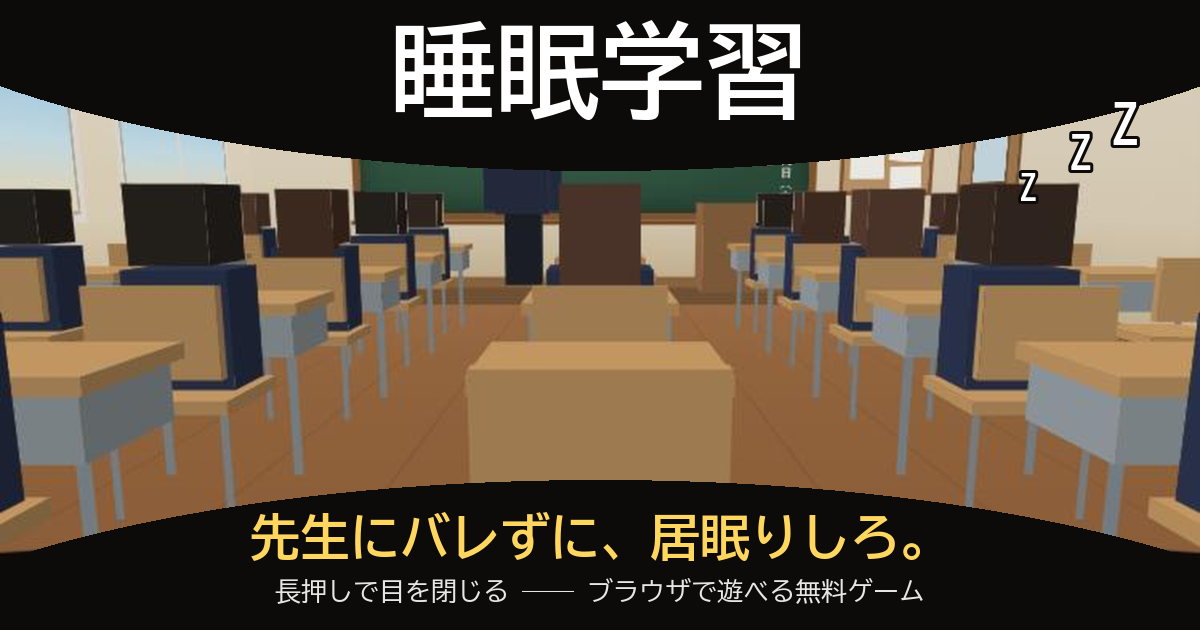
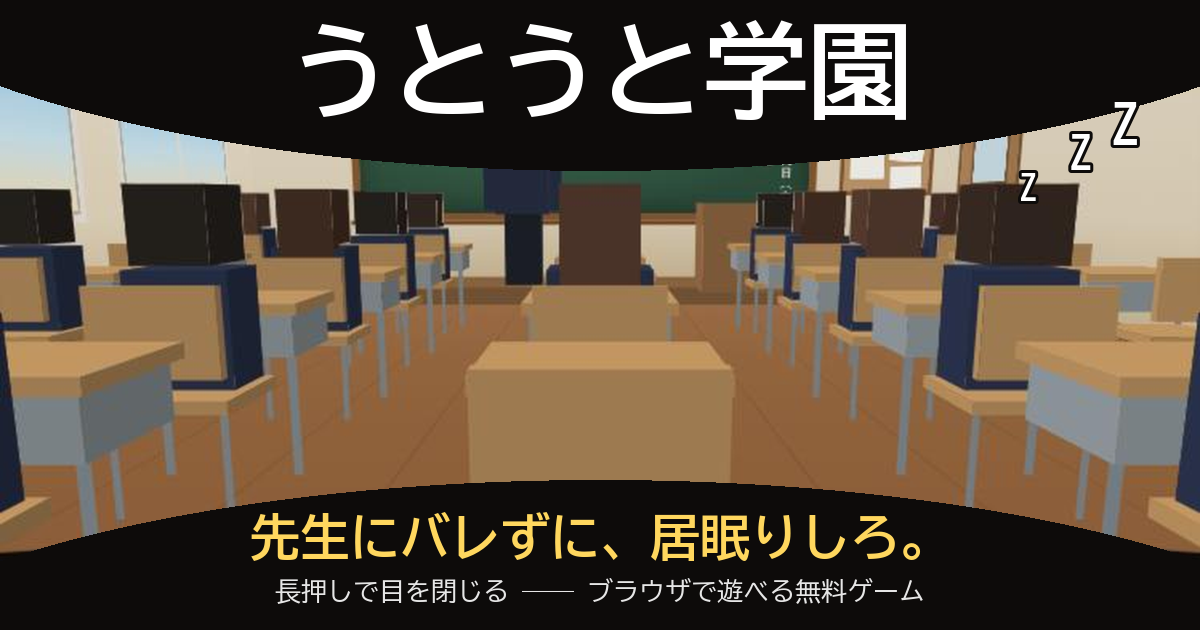
タイトルを「うとうと学園」に、スマホで拡大されたまま戻れない不具合を直す、「○限」を「○時間目」に、授業の始めの文字を長めに

Changed region(s): [[0.2467, 0.0302, 0.7708, 0.2111]]

diff --git a/index.html b/index.html
@@ -2,17 +2,17 @@
 <html lang="ja">
 <head>
 <meta charset="UTF-8">
-<meta name="viewport" content="width=device-width, initial-scale=1, user-scalable=no">
-<title>睡眠学習</title>
+<meta name="viewport" id="vp" content="width=device-width, initial-scale=1, maximum-scale=1, user-scalable=no, viewport-fit=cover">
+<title>うとうと学園</title>
 <!-- 検索やSNSで表示される説明・カード画像（公開先：https://gunhana-games.github.io/inemuri/） -->
 <meta name="description" content="授業中、先生にバレずに居眠りしろ。長押しで目を閉じると眠気が下がる。でも先生に見られたらアウト。時間割は終わらない。ブラウザで遊べる無料ゲーム。">
 <meta property="og:type" content="website">
-<meta property="og:title" content="睡眠学習">
+<meta property="og:title" content="うとうと学園">
 <meta property="og:description" content="先生にバレずに、居眠りしろ。ブラウザで今すぐ遊べる無料ゲーム。">
 <meta property="og:url" content="https://gunhana-games.github.io/inemuri/">
 <meta property="og:image" content="https://gunhana-games.github.io/inemuri/ogp.png">
 <meta name="twitter:card" content="summary_large_image">
-<meta name="twitter:title" content="睡眠学習">
+<meta name="twitter:title" content="うとうと学園">
 <meta name="twitter:description" content="先生にバレずに、居眠りしろ。">
 <meta name="twitter:image" content="https://gunhana-games.github.io/inemuri/ogp.png">
 <link rel="icon" type="image/png" href="icon.png">
@@ -446,10 +446,10 @@
   <div class="shareNote" id="shareNote"></div>
 </div>
 
-<script src="scenes.js?v=3"></script>
+<script src="scenes.js?v=4"></script>
 <script>
 // ===== タイトル（仮）。ここを書き換えるだけで、タブの名前と最初の画面とシェア文が変わる =====
-const TITLE = '睡眠学習';
+const TITLE = 'うとうと学園';
 // 公開したらURLを入れる（空のときは今のページのURLを使う）
 const SITE_URL = 'https://gunhana-games.github.io/inemuri/';
 
@@ -489,6 +489,8 @@ const P = {
   napGroggySec: 12,       // 机で寝たあと、寝起きでぼんやりする時間（秒）
   napGroggyMul: 2,        // ぼんやりしている間、眠気が何倍の速さでたまるか
   eventRate: 0.6,         // 2限から毎時限1つ起きるイベントのうち、ピンチ・チャンスの割合（残りはにぎやかし）
+  bannerMs: 2400,         // 授業の始めなどの大きな文字を出しておく時間（ミリ秒）
+  bannerLongMs: 4200,     // 先生の紹介（今日の先生：○○）がついているときの時間（ミリ秒）
   eventTagSec: 3.2,       // 「ピンチ！」「チャンス！」の合図を出しておく最低の時間（秒）
   eventWarnSec: 1.5,      // 小テスト・スマホのイベントで、先生が振り向く前の予兆の長さ（秒）
   tipSec: 3.2,            // 初めてのヒントを出しておく時間（秒）
@@ -1076,6 +1078,17 @@ el('nameInput').addEventListener('compositionstart', () => { nameComposing = tru
 el('nameInput').addEventListener('compositionend', (e) => { nameComposing = false; e.target.value = cutName(e.target.value); });
 el('nameInput').addEventListener('input', (e) => { if (!nameComposing && [...e.target.value].length > NAME_MAX) e.target.value = cutName(e.target.value); });
 const lidTop = el('lidTop'), lidBot = el('lidBot'), blur = el('blur');
+// iPhone：2本指の拡大（ピンチ）とダブルタップの拡大を止める。名前の入力のあとは、ずれた画面を元に戻す
+['gesturestart', 'gesturechange'].forEach((t) => document.addEventListener(t, (e) => e.preventDefault(), { passive: false }));
+document.addEventListener('dblclick', (e) => e.preventDefault(), { passive: false });
+function resetZoom() {
+  const vp = document.getElementById('vp');
+  const c = vp.getAttribute('content');
+  vp.setAttribute('content', c + ', minimum-scale=1');   // 一瞬書きかえると、拡大が元に戻る
+  setTimeout(() => vp.setAttribute('content', c), 50);
+  window.scrollTo(0, 0);
+}
+el('nameInput').addEventListener('blur', resetZoom);
 
 function posInDay(p) { return ((p - 1) % 24) + 1; }
 function dayOf(p) { return Math.floor((p - 1) / 24) + 1; }
@@ -1257,9 +1270,9 @@ function setupPeriod() {
     S.eventAt = -1; S.evQ = [];
     S.calls = makeCalls(lessonLen()).filter((c) => c < P.bossEndAt - 5);
     bossEntrance();
-    showBanner('！ 学年主任の授業 ！', ttype().desc, `${S.period}限　${sub}`);
+    showBanner('！ 学年主任の授業 ！', ttype().desc, `${S.period}時間目　${sub}`);
   }
-  if (!boss) showBanner(`${S.period}限　${sub}`, `${room !== 'classroom' ? ROOM_NAMES[room] + '・' : ''}${ph.name}・${lvName}`, `今日の先生：${ttype().name}${ttype().desc ? '（' + ttype().desc + '）' : ''}`);
+  if (!boss) showBanner(`${S.period}時間目　${sub}`, `${room !== 'classroom' ? ROOM_NAMES[room] + '・' : ''}${ph.name}・${lvName}`, `今日の先生：${ttype().name}${ttype().desc ? '（' + ttype().desc + '）' : ''}`);
 }
 // ===== 左上の時間割表 =====
 // 今の時限をふくむ6時限分（1〜6限、7〜12限…）を並べる。今の時限は色つき＋先生のクセ＋残り時間のバー、
@@ -1268,7 +1281,7 @@ function renderTimetable(inBreak = false) {
   const p = Math.max(1, S.period || 1);
   const first = p - ((posInDay(p) - 1) % 6);
   const ph = phaseOf(p);
-  el('ttTitle').textContent = `${dayOf(p) > 1 ? dayOf(p) + '日目 ' : ''}時間割 ${first}〜${first + 5}限`;
+  el('ttTitle').textContent = `${dayOf(p) > 1 ? dayOf(p) + '日目 ' : ''}時間割 ${first}〜${first + 5}時間目`;
   el('pPhase').textContent = ph.name;
   el('pPhase').className = ph.key;
   let html = '';
@@ -1309,7 +1322,7 @@ function showBanner(t, sub, sub2) {
   b.innerHTML = `${esc(t)}<small>${esc(sub || '')}</small>${sub2 ? `<small class="b2">${esc(sub2)}</small>` : ''}`;
   b.classList.add('on');
   clearTimeout(showBanner.t);
-  showBanner.t = setTimeout(() => b.classList.remove('on'), sub2 ? 2400 : 1600);
+  showBanner.t = setTimeout(() => b.classList.remove('on'), sub2 ? P.bannerLongMs : P.bannerMs);   // 先生の紹介つきは長めに
 }
 // 先生の吹き出し。目を閉じているほど、文字が虫食いになってにじむ
 function say(text, speaker, garble = false) {
@@ -2957,7 +2970,7 @@ function buildDevPanel() {
     <label for="dPick">休み時間に必ず出す</label><select id="dPick">${opt([['', 'ランダム']].concat(BREAK_ACTIONS.map((a) => [a.id, a.name + (a.when ? '（' + ({ lunch: '昼休み', day: '朝〜昼', evening: '補習', night: '夜', midnight: '真夜中', dawn: '夜明け' })[a.when] + '）' : '')])), DEV.breakPick)}</select>
     <label for="dGod">無敵（アウトにならない）</label><input id="dGod" type="checkbox"${DEV.god ? ' checked' : ''}>`;
   box.classList.remove('hidden');
-  el('titleRecord').textContent = '時間帯：1〜6限 朝〜昼／7〜9限 補習／10〜15限 夜／16〜21限 真夜中／22〜24限 夜明け（6限ごとに学年主任）';
+  el('titleRecord').textContent = '時間帯：1〜6時間目 朝〜昼／7〜9 補習／10〜15 夜／16〜21 真夜中／22〜24 夜明け（6時間目ごとに学年主任）';
 }
 function readDevPanel() {
   DEV.start = Math.max(1, Math.min(72, Math.floor(Number(el('dStart').value) || 1)));
@@ -3019,12 +3032,12 @@ function gameOver(kind, causeText, who) {
   const prev = Number(store('inemuri-best') || 0);
   if (reached > prev && !DEV.on) store('inemuri-best', String(reached));   // 開発者メニューで遊んだ分は記録しない
   const ph = phaseOf(reached);
-  el('endScore').innerHTML = `${reached}限<small>（${esc(S.subject)}）${sec}秒でアウト</small>`;
+  el('endScore').innerHTML = `${reached}時間目<small>（${esc(S.subject)}）${sec}秒でアウト</small>`;
   el('endSub').textContent = (dayOf(reached) > 1 ? `${dayOf(reached)}日目・` : '') + ph.name;
   el('endCause').textContent = '死因：' + cause;
   el('endSleep').textContent = `起きていた時間 ${fmtTime(S.awakeTime)}${S.bestCombo > 1 ? `（セーフ最高 ×${S.bestCombo}）` : ''}`;
   el('endRank').textContent = '称号：' + rankOf(reached);
-  el('endBest').textContent = reached > prev && prev ? '自己ベスト更新！' : prev ? `自己ベスト ${Math.max(prev, reached)}限` : '';
+  el('endBest').textContent = reached > prev && prev ? '自己ベスト更新！' : prev ? `自己ベスト ${Math.max(prev, reached)}時間目` : '';
   S.result = { reached, cause, rank: rankOf(reached), sub: S.subject, sleep: fmtTime(S.sleepTime), sleepSec: S.sleepTime, awake: fmtTime(S.awakeTime), awakeSec: S.awakeTime,
     bestCombo: S.bestCombo, correct: S.correct, answered: S.answered, name: playerName, catcher: kind === 'sleep' ? '' : (who || speakerName()),
     kind, plays: DEV.on ? plays + 1 : plays, safeAll: S.safeAll, turns: S.turns, called: S.called, tests: S.tests, testPerfect: S.testPerfect, nurse: S.nurse, coffee: S.coffee,
@@ -3069,7 +3082,7 @@ function reportData(r) {
 }
 function shareText() {
   const r = S.result;
-  return `【${TITLE}】${r.reached}限（${r.sub}）でアウト\n起きていた時間：${r.awake}\n死因：${r.cause}\n称号：${r.rank}\n#${TITLE}`;
+  return `【${TITLE}】${r.reached}時間目（${r.sub}）でアウト\n起きていた時間：${r.awake}\n死因：${r.cause}\n称号：${r.rank}\n#${TITLE}`;
 }
 function shareUrl() { return SITE_URL || (location.protocol.startsWith('http') ? location.href.split(/[?#]/)[0] : ''); }
 // スマホで「画像つきの共有」ができるなら、結果の画像といっしょに共有する。できなければXの投稿画面を開く（文字だけ）
@@ -3092,7 +3105,7 @@ async function saveImage() {
   const blob = await resultBlob();
   const a = document.createElement('a');
   a.href = URL.createObjectURL(blob);
-  a.download = `suimin-gakushu-${S.result.reached}gen.png`;
+  a.download = `suimin-gakushu-${S.result.reached}jikanme.png`;
   document.body.appendChild(a); a.click(); a.remove();
   setTimeout(() => URL.revokeObjectURL(a.href), 2000);
 }
@@ -3208,7 +3221,7 @@ function drawResultCanvas() {
     const L = 70, R = W / 2 - 34;
     txt('通　知　表', L, 80, 44, { w: 900 });
     txt(`第${d.plays}学期`, R, 78, 24, { a: 'right', w: 900 });
-    txt('私立 睡眠学習高等学校', L, 118, 18);
+    txt('私立 うとうと学園高等学校', L, 118, 18);
     txt('氏名', R - 150, 118, 18);
     txt(d.name, R, 120, 30, { a: 'right', w: 900 });
     line(L, 132, R, 132, 3);
@@ -3230,7 +3243,7 @@ function drawResultCanvas() {
     const ay = gy + ch * 2 + 34;
     heading('居眠りの記録', L, ay);
     const rc = d.record;
-    const cols = [['授業時数', `${rc.periods}限`], ['起きていた時間', rc.awake], ['セーフ', `${rc.safeAll}回`], ['セーフ最高', `×${rc.safe}`],
+    const cols = [['授業時数', `${rc.periods}時間`], ['起きていた時間', rc.awake], ['セーフ', `${rc.safeAll}回`], ['セーフ最高', `×${rc.safe}`],
                   ['振り向かれた', `${rc.turns}回`], ['当てられた', `${rc.called}回`], ['正解', `${rc.correct}問`], ['小テスト', `${rc.test}回`]];
     const per = 4, acw = (R - L) / per, ach = 46;
     cols.forEach(([k, v], i) => {
@@ -3293,6 +3306,7 @@ function drawResultCanvas() {
 
 function start() {
   audio();
+  resetZoom();
   if (DEV.on) readDevPanel();   // 開発者メニューの設定を、S を作る前に読む（始める時限など）
   playerName = cutName((el('nameInput').value || '').trim()) || '山田';   // 念のため、始めるときにも6文字で切る
   store('inemuri-name', playerName);

diff --git a/scenes.js b/scenes.js
@@ -1,5 +1,5 @@
 // ============================================================
-//  睡眠学習：場面データ（教科・問題・先生の話・時間帯・称号）
+//  うとうと学園：場面データ（教科・問題・先生の話・時間帯・称号）
 //  問題や話を増やしたいときは、ここに書き足すだけでよい。
 //  問題のレベル：1=小学生（1〜6限） 2=中学生（7〜15限） 3=高校生（16限〜、2日目以降）
 // ============================================================
@@ -413,7 +413,7 @@ const PHASES = [
     talk: ['えー、本日は大変お日柄もよく', '話は短くしますが……', 'えー、最後にもうひとつ'] },
   { key: 'dawn', from: 22, to: 24, name: '夜明け', speaker: '先生（徹夜明け）', students: 'none', events: ['phone', 'test', 'peek'],
     teacher: { suit: '#3c4a6b', pants: '#2f3440', hair: '#8a8580', tie: '#b8423c', glasses: true },
-    talk: ['……先生も眠い', '朝日がまぶしいな……', 'もうすぐ1限だぞ……'] },
+    talk: ['……先生も眠い', '朝日がまぶしいな……', 'もうすぐ1時間目だぞ……'] },
 ];
 // ----- 先生のクセ（授業ごとにランダム。1限はふつう、6限ごとは学年主任） -----
 // feintAdd: 振り向くフリが増える / boardMul: 黒板を向いている時間（小さいほどよく振り向く）

diff --git a/tools/make_ogp.py b/tools/make_ogp.py
@@ -11,7 +11,7 @@ HERE = os.path.dirname(os.path.abspath(__file__))
 OUT = os.path.dirname(HERE)
 FONT_B = "C:/Windows/Fonts/BIZ-UDGothicB.ttc"
 FONT_R = "C:/Windows/Fonts/BIZ-UDGothicR.ttc"
-TITLE = "睡眠学習"
+TITLE = "うとうと学園"
 TAG = "先生にバレずに、居眠りしろ。"
 SUB = "長押しで目を閉じる ── ブラウザで遊べる無料ゲーム"
 YELLOW = (255, 215, 94)

diff --git a/README.md b/README.md
@@ -1,4 +1,4 @@
-# 睡眠学習
+# うとうと学園
 
 授業中、先生にバレずに居眠りしろ。
 長押しで目を閉じると眠気が下がる。でも、先生に見られたらアウト。当てられたら、すぐに答えろ。時間割は、終わらない。
